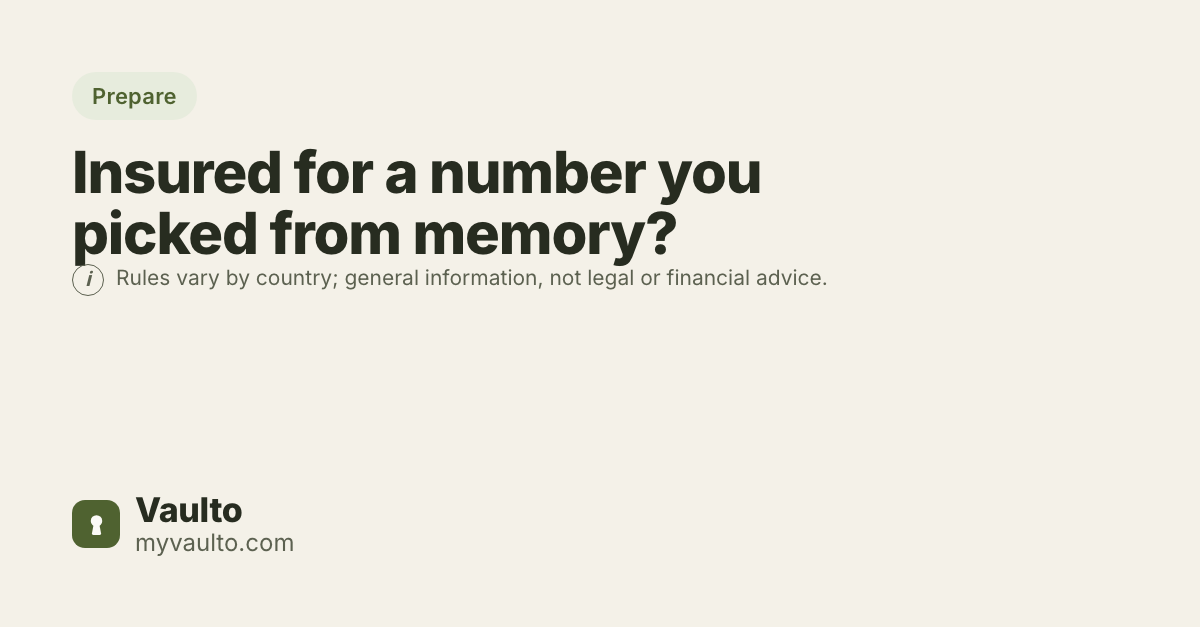
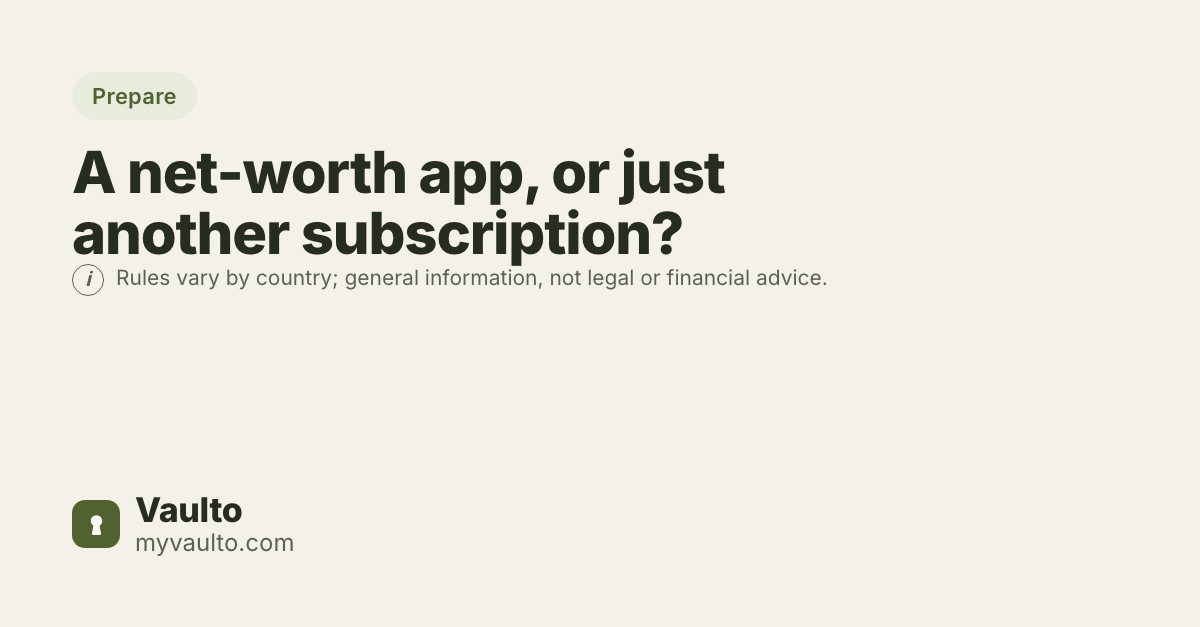
ARY-846: render wk 2026-07-23 social batch (13 assets, Net Worth Tracker vs Spreadsheet)
Renders the 13 assets.json blocks from ARY-846 doc §D (CMO LOCK claim-QA PASS,
ARY-24 §2) to $0/self-hosted PNGs via render.mjs. 7 Pinterest pins + 4 LinkedIn
cards + 1 short-form video (hook + end card). All theme:calm + warn + disclaimer.

Atomizes the live post /blog/net-worth-tracker-vs-spreadsheet/ (from ARY-844).
Angle: honest decision/comparison — a spreadsheet is fine to start; a vault wins
on durability, evidence, mobile capture, and family-readiness — NOT auto-magic
balances (values entered by hand, same as a spreadsheet).

Renderer clean: 13/13 rendered, 0 failures, 0 overflow. On-graphic pass spot-
checked pin-p3/p4/p6, li-l2, video-v1 (every distinct block type). liCards are
headline-only by design (subhead lives in the caption, not the graphic).

Changed region(s): [[0.0617, 0.2424, 0.6475, 0.4242]]

diff --git a/docs/design/social-templates-ARY-527/out/pin-p1.html b/docs/design/social-templates-ARY-527/out/pin-p1.html
@@ -5,33 +5,33 @@
 <div class="canvas" data-theme="calm" data-format="pin" data-block="checklist">
   <div class="frame"></div>
   <div class="content" style="padding:80px">
-      <div class="tag" style="font-size:28px;padding:14px 25px">Prepare</div>
-      <h1 class="headline" data-fit style="font-size:80px;margin-top:30px">6 details to capture per item</h1>
-      <p class="subhead" style="font-size:33px;margin-top:21px">So an insurance claim holds up</p>
+      <div class="tag" style="font-size:28px;padding:14px 25px">Organise</div>
+      <h1 class="headline" data-fit style="font-size:80px;margin-top:30px">Signs your net-worth spreadsheet is breaking</h1>
+      <p class="subhead" style="font-size:33px;margin-top:21px">Check the ones that sound like you</p>
       <div class="block" style="gap:22px;margin-top:30px">
         <div class="row" style="gap:19px">
           <span class="tick" style="width:51px;height:51px"><svg width="32" height="32" viewBox="0 0 24 24" fill="none"><path d="M5 12.5l4.2 4.2L19 7" stroke="#FBFAF6" stroke-width="3.2" stroke-linecap="round" stroke-linejoin="round"/></svg></span>
-          <span class="row-text" style="font-size:38px">Description — make &amp; model</span>
+          <span class="row-text" style="font-size:38px">A broken formula cost you an afternoon</span>
         </div>
         <div class="row" style="gap:19px">
           <span class="tick" style="width:51px;height:51px"><svg width="32" height="32" viewBox="0 0 24 24" fill="none"><path d="M5 12.5l4.2 4.2L19 7" stroke="#FBFAF6" stroke-width="3.2" stroke-linecap="round" stroke-linejoin="round"/></svg></span>
-          <span class="row-text" style="font-size:38px">Purchase date &amp; price</span>
+          <span class="row-text" style="font-size:38px">The file lives on one laptop</span>
         </div>
         <div class="row" style="gap:19px">
           <span class="tick" style="width:51px;height:51px"><svg width="32" height="32" viewBox="0 0 24 24" fill="none"><path d="M5 12.5l4.2 4.2L19 7" stroke="#FBFAF6" stroke-width="3.2" stroke-linecap="round" stroke-linejoin="round"/></svg></span>
-          <span class="row-text" style="font-size:38px">Replacement value (or range)</span>
+          <span class="row-text" style="font-size:38px">It holds numbers, not the proof</span>
         </div>
         <div class="row" style="gap:19px">
           <span class="tick" style="width:51px;height:51px"><svg width="32" height="32" viewBox="0 0 24 24" fill="none"><path d="M5 12.5l4.2 4.2L19 7" stroke="#FBFAF6" stroke-width="3.2" stroke-linecap="round" stroke-linejoin="round"/></svg></span>
-          <span class="row-text" style="font-size:38px">Serial numbers</span>
+          <span class="row-text" style="font-size:38px">Out of date — typing it up is a chore</span>
         </div>
         <div class="row" style="gap:19px">
           <span class="tick" style="width:51px;height:51px"><svg width="32" height="32" viewBox="0 0 24 24" fill="none"><path d="M5 12.5l4.2 4.2L19 7" stroke="#FBFAF6" stroke-width="3.2" stroke-linecap="round" stroke-linejoin="round"/></svg></span>
-          <span class="row-text" style="font-size:38px">Evidence — receipt or photo</span>
+          <span class="row-text" style="font-size:38px">No history unless you build the charts</span>
         </div>
         <div class="row" style="gap:19px">
           <span class="tick" style="width:51px;height:51px"><svg width="32" height="32" viewBox="0 0 24 24" fill="none"><path d="M5 12.5l4.2 4.2L19 7" stroke="#FBFAF6" stroke-width="3.2" stroke-linecap="round" stroke-linejoin="round"/></svg></span>
-          <span class="row-text" style="font-size:38px">Insurance status</span>
+          <span class="row-text" style="font-size:38px">Only you could ever use it</span>
         </div></div>
       <div class="spacer"></div>
       <div class="disclaimer" style="font-size:24px;gap:13px;margin-bottom:30px">

diff --git a/docs/design/social-templates-ARY-527/out/pin-p6.html b/docs/design/social-templates-ARY-527/out/pin-p6.html
@@ -6,32 +6,32 @@
   <div class="frame"></div>
   <div class="content" style="padding:80px">
       <div class="tag" style="font-size:28px;padding:14px 25px">Prepare</div>
-      <h1 class="headline" data-fit style="font-size:80px;margin-top:30px">Items your cover may cap unless you list them</h1>
-      <p class="subhead" style="font-size:33px;margin-top:21px">May need specifying separately</p>
+      <h1 class="headline" data-fit style="font-size:80px;margin-top:30px">What a vault adds that a spreadsheet can't</h1>
+      
       <div class="block" style="gap:22px;margin-top:30px">
         <div class="row" style="gap:19px">
           <span class="tick" style="width:51px;height:51px"><svg width="32" height="32" viewBox="0 0 24 24" fill="none"><path d="M5 12.5l4.2 4.2L19 7" stroke="#FBFAF6" stroke-width="3.2" stroke-linecap="round" stroke-linejoin="round"/></svg></span>
-          <span class="row-text" style="font-size:38px">Jewellery &amp; watches</span>
+          <span class="row-text" style="font-size:38px">Typed fields for 35+ asset &amp; liability types</span>
         </div>
         <div class="row" style="gap:19px">
           <span class="tick" style="width:51px;height:51px"><svg width="32" height="32" viewBox="0 0 24 24" fill="none"><path d="M5 12.5l4.2 4.2L19 7" stroke="#FBFAF6" stroke-width="3.2" stroke-linecap="round" stroke-linejoin="round"/></svg></span>
-          <span class="row-text" style="font-size:38px">Bicycles</span>
+          <span class="row-text" style="font-size:38px">Monthly net-worth snapshots + dashboard</span>
         </div>
         <div class="row" style="gap:19px">
           <span class="tick" style="width:51px;height:51px"><svg width="32" height="32" viewBox="0 0 24 24" fill="none"><path d="M5 12.5l4.2 4.2L19 7" stroke="#FBFAF6" stroke-width="3.2" stroke-linecap="round" stroke-linejoin="round"/></svg></span>
-          <span class="row-text" style="font-size:38px">Cameras &amp; tech</span>
+          <span class="row-text" style="font-size:38px">A registry for deeds, policies &amp; statements</span>
         </div>
         <div class="row" style="gap:19px">
           <span class="tick" style="width:51px;height:51px"><svg width="32" height="32" viewBox="0 0 24 24" fill="none"><path d="M5 12.5l4.2 4.2L19 7" stroke="#FBFAF6" stroke-width="3.2" stroke-linecap="round" stroke-linejoin="round"/></svg></span>
-          <span class="row-text" style="font-size:38px">Art &amp; collectibles</span>
+          <span class="row-text" style="font-size:38px">Per-asset evidence files</span>
         </div>
         <div class="row" style="gap:19px">
           <span class="tick" style="width:51px;height:51px"><svg width="32" height="32" viewBox="0 0 24 24" fill="none"><path d="M5 12.5l4.2 4.2L19 7" stroke="#FBFAF6" stroke-width="3.2" stroke-linecap="round" stroke-linejoin="round"/></svg></span>
-          <span class="row-text" style="font-size:38px">Designer handbags</span>
+          <span class="row-text" style="font-size:38px">Photo → an AI-drafted record you confirm</span>
         </div>
         <div class="row" style="gap:19px">
           <span class="tick" style="width:51px;height:51px"><svg width="32" height="32" viewBox="0 0 24 24" fill="none"><path d="M5 12.5l4.2 4.2L19 7" stroke="#FBFAF6" stroke-width="3.2" stroke-linecap="round" stroke-linejoin="round"/></svg></span>
-          <span class="row-text" style="font-size:38px">Musical instruments</span>
+          <span class="row-text" style="font-size:38px">One source of truth your family could use</span>
         </div></div>
       <div class="spacer"></div>
       <div class="disclaimer" style="font-size:24px;gap:13px;margin-bottom:30px">

diff --git a/docs/design/social-templates-ARY-527/out/video-v1.html b/docs/design/social-templates-ARY-527/out/video-v1.html
@@ -5,11 +5,11 @@
 <div class="canvas" data-theme="calm" data-format="video" data-block="title">
   
   <div class="content" style="padding:230px 96px 330px">
-      <div class="tag" style="font-size:30px;padding:15px 27px">Protect</div>
-      <h1 class="headline" data-fit style="font-size:96px;margin-top:34px;line-height:1.04">Could you prove what you owned after a fire?</h1>
+      <div class="tag" style="font-size:30px;padding:15px 27px">Organise</div>
+      <h1 class="headline" data-fit style="font-size:96px;margin-top:34px;line-height:1.04">Why my net-worth spreadsheet keeps breaking</h1>
       <div class="spacer"></div>
-      <div class="onscreen" style="display:flex;flex-direction:column;gap:17px;margin-bottom:34px"><div style="font-size:43px;line-height:1.25">Could you prove it?</div><div style="font-size:43px;line-height:1.25">Settled item by item</div><div style="font-size:43px;line-height:1.25">Snap → the app drafts → you confirm</div><div style="font-size:43px;line-height:1.25">Stored off the premises</div><div style="font-size:43px;line-height:1.25">Easier to make. Harder to dispute.</div></div>
-      <div class="cta" style="font-size:40px;padding:24px 56px;margin-bottom:34px">Build it before you need it — link in bio</div>
+      <div class="onscreen" style="display:flex;flex-direction:column;gap:17px;margin-bottom:34px"><div style="font-size:43px;line-height:1.25">One formula, one wrong total</div><div style="font-size:43px;line-height:1.25">One laptop, one point of failure</div><div style="font-size:43px;line-height:1.25">Numbers — but none of the proof</div><div style="font-size:43px;line-height:1.25">Snap → the app drafts → you confirm</div><div style="font-size:43px;line-height:1.25">Structure, not auto-magic balances</div></div>
+      <div class="cta" style="font-size:40px;padding:24px 56px;margin-bottom:34px">Keep it or switch — link in bio</div>
       <div class="disclaimer" style="font-size:24px;gap:13px;margin-bottom:34px">
     <span class="i" style="width:36px;height:36px;font-size:22px">i</span>
     <span>Rules vary by country; general information, not legal or financial advice.</span>

diff --git a/docs/design/social-templates-ARY-527/out/pin-p5.html b/docs/design/social-templates-ARY-527/out/pin-p5.html
@@ -5,21 +5,21 @@
 <div class="canvas" data-theme="calm" data-format="pin" data-block="steps">
   <div class="frame"></div>
   <div class="content" style="padding:80px">
-      <div class="tag" style="font-size:28px;padding:14px 25px">Organise</div>
-      <h1 class="headline" data-fit style="font-size:80px;margin-top:30px">Build it without a spreadsheet marathon</h1>
+      <div class="tag" style="font-size:28px;padding:14px 25px">Proof</div>
+      <h1 class="headline" data-fit style="font-size:80px;margin-top:30px">Add an asset without opening a spreadsheet</h1>
       
       <div class="block" style="gap:22px;margin-top:30px">
         <div class="panel" style="padding:27px 30px">
           <div class="panel-label" style="font-size:23px;margin-bottom:10px">1. Snap</div>
-          <div class="panel-text" style="font-size:38px">Photograph an item or its receipt</div>
+          <div class="panel-text" style="font-size:38px">Photograph an item or a document</div>
         </div>
         <div class="panel" style="padding:27px 30px">
           <div class="panel-label" style="font-size:23px;margin-bottom:10px">2. The app drafts</div>
-          <div class="panel-text" style="font-size:38px">Item, value or range, serial numbers where visible</div>
+          <div class="panel-text" style="font-size:38px">The item, a value or range, the details it can read</div>
         </div>
         <div class="panel" style="padding:27px 30px">
           <div class="panel-label" style="font-size:23px;margin-bottom:10px">3. You confirm</div>
-          <div class="panel-text" style="font-size:38px">Confirm, edit, or reject — nothing saved until you check it</div>
+          <div class="panel-text" style="font-size:38px">Confirm, edit or reject — nothing saved until you check it</div>
         </div></div>
       <div class="spacer"></div>
       <div class="disclaimer" style="font-size:24px;gap:13px;margin-bottom:30px">

diff --git a/docs/design/social-templates-ARY-527/out/pin-p4.html b/docs/design/social-templates-ARY-527/out/pin-p4.html
@@ -5,17 +5,17 @@
 <div class="canvas" data-theme="calm" data-format="pin" data-block="split">
   <div class="frame"></div>
   <div class="content" style="padding:80px">
-      <div class="tag" style="font-size:28px;padding:14px 25px">Prepare</div>
-      <h1 class="headline" data-fit style="font-size:80px;margin-top:30px">What your payout depends on</h1>
+      <div class="tag" style="font-size:28px;padding:14px 25px">Protect</div>
+      <h1 class="headline" data-fit style="font-size:80px;margin-top:30px">No, it won't auto-update your balances</h1>
       
       <div class="block" style="gap:22px;margin-top:30px">
         <div class="panel" style="padding:27px 30px">
-          <div class="panel-label" style="font-size:23px;margin-bottom:10px">Replacement value</div>
-          <div class="panel-text" style="font-size:38px">New-for-old — what it costs to buy new today</div>
+          <div class="panel-label" style="font-size:23px;margin-bottom:10px">What it won't do</div>
+          <div class="panel-text" style="font-size:38px">Link, aggregate or sync your accounts — there are no live balances</div>
         </div>
         <div class="panel" style="padding:27px 30px">
-          <div class="panel-label" style="font-size:23px;margin-bottom:10px">Actual cash value</div>
-          <div class="panel-text" style="font-size:38px">Minus wear &amp; depreciation — pays less on older items</div>
+          <div class="panel-label" style="font-size:23px;margin-bottom:10px">What you do</div>
+          <div class="panel-text" style="font-size:38px">Enter the values by hand, exactly like a spreadsheet</div>
         </div></div>
       <div class="spacer"></div>
       <div class="disclaimer" style="font-size:24px;gap:13px;margin-bottom:30px">

diff --git a/docs/design/social-templates-ARY-527/out/pin-p7.html b/docs/design/social-templates-ARY-527/out/pin-p7.html
@@ -2,21 +2,13 @@
 <link rel="stylesheet" href="../social.css">
 <style>html,body{margin:0}.canvas{width:1000px;height:1500px}</style>
 </head><body>
-<div class="canvas" data-theme="calm" data-format="pin" data-block="split">
+<div class="canvas" data-theme="calm" data-format="pin" data-block="title">
   <div class="frame"></div>
   <div class="content" style="padding:80px">
       <div class="tag" style="font-size:28px;padding:14px 25px">Prepare</div>
-      <h1 class="headline" data-fit style="font-size:80px;margin-top:30px">The free AI insurance overview</h1>
+      <h1 class="headline" data-fit style="font-size:80px;margin-top:30px">If something happened, would your family know what you own?</h1>
+      <p class="subhead" style="font-size:33px;margin-top:21px">A spreadsheet on one laptop can't answer that — one organised place can</p>
       
-      <div class="block" style="gap:22px;margin-top:30px">
-        <div class="panel" style="padding:27px 30px">
-          <div class="panel-label" style="font-size:23px;margin-bottom:10px">What it does</div>
-          <div class="panel-text" style="font-size:38px">Estimates value ranges, asks a few questions, surfaces likely gaps</div>
-        </div>
-        <div class="panel" style="padding:27px 30px">
-          <div class="panel-label" style="font-size:23px;margin-bottom:10px">What it's not</div>
-          <div class="panel-text" style="font-size:38px">Not a cover decision — take it to your broker or insurer</div>
-        </div></div>
       <div class="spacer"></div>
       <div class="disclaimer" style="font-size:24px;gap:13px;margin-bottom:30px">
     <span class="i" style="width:36px;height:36px;font-size:22px">i</span>

diff --git a/docs/design/social-templates-ARY-527/out/pin-p3.html b/docs/design/social-templates-ARY-527/out/pin-p3.html
@@ -6,16 +6,16 @@
   <div class="frame"></div>
   <div class="content" style="padding:80px">
       <div class="tag" style="font-size:28px;padding:14px 25px">Prepare</div>
-      <h1 class="headline" data-fit style="font-size:80px;margin-top:30px">Sum insured vs under-insurance</h1>
+      <h1 class="headline" data-fit style="font-size:80px;margin-top:30px">Spreadsheet vs vault: the honest trade-off</h1>
       
       <div class="block" style="gap:22px;margin-top:30px">
         <div class="panel" style="padding:27px 30px">
-          <div class="panel-label" style="font-size:23px;margin-bottom:10px">Sum insured</div>
-          <div class="panel-text" style="font-size:38px">The total value of everything your contents policy covers</div>
+          <div class="panel-label" style="font-size:23px;margin-bottom:10px">Spreadsheet</div>
+          <div class="panel-text" style="font-size:38px">Free and flexible — perfect for a quick figure, and yours alone to maintain</div>
         </div>
         <div class="panel" style="padding:27px 30px">
-          <div class="panel-label" style="font-size:23px;margin-bottom:10px">Under-insured</div>
-          <div class="panel-text" style="font-size:38px">Set it too low and a settlement can be scaled down to match</div>
+          <div class="panel-label" style="font-size:23px;margin-bottom:10px">Vault</div>
+          <div class="panel-text" style="font-size:38px">Structure, evidence and history around the numbers — free to start</div>
         </div></div>
       <div class="spacer"></div>
       <div class="disclaimer" style="font-size:24px;gap:13px;margin-bottom:30px">

diff --git a/docs/design/social-templates-ARY-527/out/pin-p2.html b/docs/design/social-templates-ARY-527/out/pin-p2.html
@@ -5,9 +5,9 @@
 <div class="canvas" data-theme="calm" data-format="pin" data-block="title">
   <div class="frame"></div>
   <div class="content" style="padding:80px">
-      <div class="tag" style="font-size:28px;padding:14px 25px">Protect</div>
-      <h1 class="headline" data-fit style="font-size:80px;margin-top:30px">Could you prove what you owned after a fire?</h1>
-      <p class="subhead" style="font-size:33px;margin-top:21px">Keep the evidence off the premises — so it survives even when the contents don't</p>
+      <div class="tag" style="font-size:28px;padding:14px 25px">Organise</div>
+      <h1 class="headline" data-fit style="font-size:80px;margin-top:30px">A spreadsheet is fine to start</h1>
+      <p class="subhead" style="font-size:33px;margin-top:21px">It's when the number has to live — trusted for years, useful to your family — that a vault earns the switch</p>
       
       <div class="spacer"></div>
       <div class="disclaimer" style="font-size:24px;gap:13px;margin-bottom:30px">

diff --git a/docs/design/social-templates-ARY-527/out/video-v1-end.html b/docs/design/social-templates-ARY-527/out/video-v1-end.html
@@ -16,9 +16,9 @@
     </span>
   </div>
       <div class="spacer" style="max-height:51px"></div>
-      <div class="tag" style="font-size:30px;padding:15px 27px">Protect</div>
-      <h1 class="headline" data-fit style="font-size:64px;margin-top:34px">Make your contents claim-ready</h1>
-      <div class="cta" style="font-size:40px;padding:24px 56px;margin-top:48px">Start your home inventory</div>
+      <div class="tag" style="font-size:30px;padding:15px 27px">Prepare</div>
+      <h1 class="headline" data-fit style="font-size:64px;margin-top:34px">Fine to start. A vault when it needs to last.</h1>
+      <div class="cta" style="font-size:40px;padding:24px 56px;margin-top:48px">Track it in one place — free to start</div>
       <div class="spacer"></div>
       <div class="disclaimer" style="font-size:24px;gap:13px;margin-bottom:34px">
     <span class="i" style="width:36px;height:36px;font-size:22px">i</span>

diff --git a/docs/design/social-templates-ARY-527/out/li-l3.html b/docs/design/social-templates-ARY-527/out/li-l3.html
@@ -5,8 +5,8 @@
 <div class="canvas" data-theme="calm" data-format="liCard" data-block="title">
   
   <div class="content" style="padding:72px">
-      <div class="tag" style="font-size:22px;padding:11px 20px">Protect</div>
-      <h1 class="headline" data-fit style="font-size:58px;margin-top:22px">A fire can take your belongings and your proof — the same night</h1>
+      <div class="tag" style="font-size:22px;padding:11px 20px">Organise</div>
+      <h1 class="headline" data-fit style="font-size:58px;margin-top:22px">Your family ledger is one file on one laptop</h1>
       <div class="disclaimer" style="font-size:21px;gap:12px;margin-bottom:22px">
     <span class="i" style="width:32px;height:32px;font-size:20px">i</span>
     <span>Rules vary by country; general information, not legal or financial advice.</span>

diff --git a/docs/design/social-templates-ARY-527/out/li-l2.html b/docs/design/social-templates-ARY-527/out/li-l2.html
@@ -5,8 +5,8 @@
 <div class="canvas" data-theme="calm" data-format="liCard" data-block="title">
   
   <div class="content" style="padding:72px">
-      <div class="tag" style="font-size:22px;padding:11px 20px">Prepare</div>
-      <h1 class="headline" data-fit style="font-size:58px;margin-top:22px">"We'll remember what we lost." No one does.</h1>
+      <div class="tag" style="font-size:22px;padding:11px 20px">Protect</div>
+      <h1 class="headline" data-fit style="font-size:58px;margin-top:22px">A good net-worth tool won't secretly update your balances</h1>
       <div class="disclaimer" style="font-size:21px;gap:12px;margin-bottom:22px">
     <span class="i" style="width:32px;height:32px;font-size:20px">i</span>
     <span>Rules vary by country; general information, not legal or financial advice.</span>

diff --git a/docs/design/social-templates-ARY-527/out/li-l4.html b/docs/design/social-templates-ARY-527/out/li-l4.html
@@ -6,7 +6,7 @@
   
   <div class="content" style="padding:72px">
       <div class="tag" style="font-size:22px;padding:11px 20px">Prepare</div>
-      <h1 class="headline" data-fit style="font-size:58px;margin-top:22px">Technically covered, practically not</h1>
+      <h1 class="headline" data-fit style="font-size:58px;margin-top:22px">Would your family find everything if something happened?</h1>
       <div class="disclaimer" style="font-size:21px;gap:12px;margin-bottom:22px">
     <span class="i" style="width:32px;height:32px;font-size:20px">i</span>
     <span>Rules vary by country; general information, not legal or financial advice.</span>
